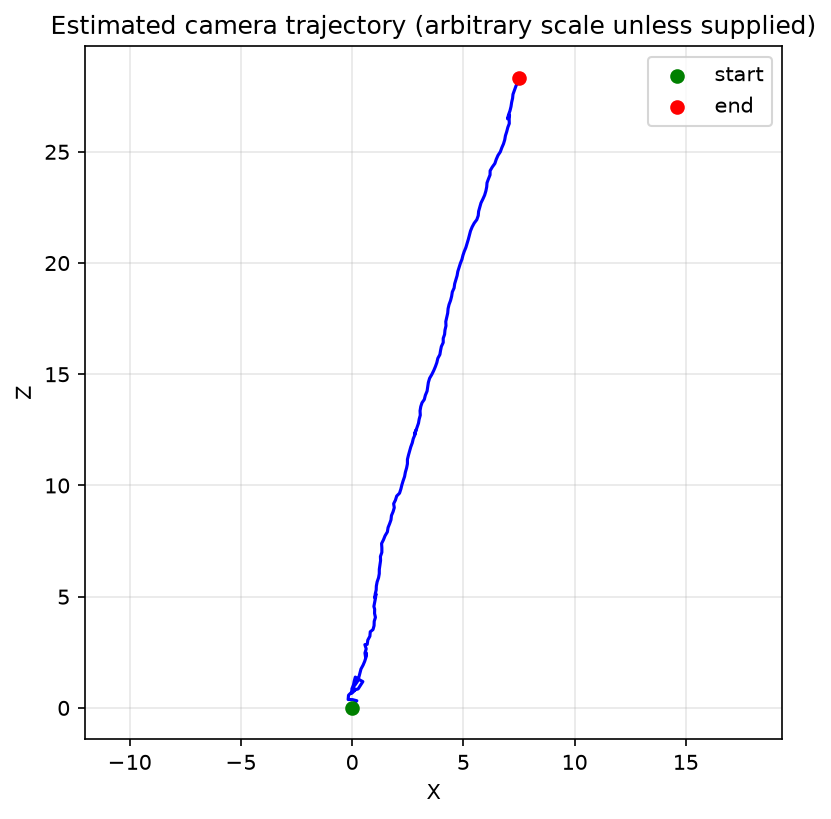
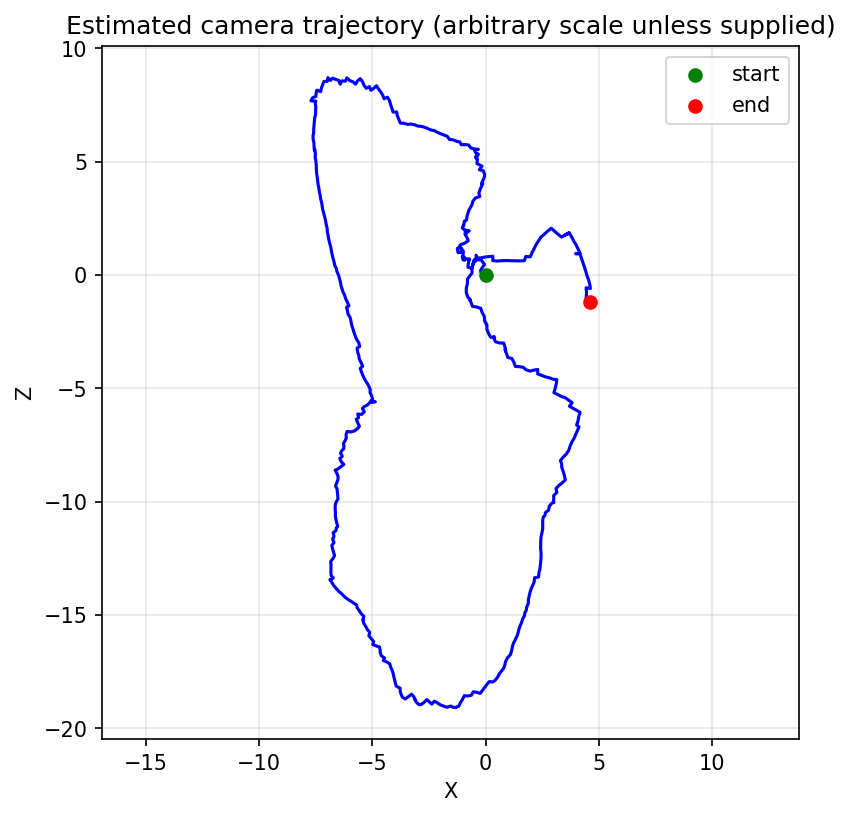
Loop fix

diff --git a/orb-slam/monocular_vo_xFeat.py b/orb-slam/monocular_vo_xFeat.py
@@ -283,12 +283,13 @@ class MonocularVO:
         bank = torch.stack([kf.global_descriptor for kf in eligible])   # (M, k*d), already L2-normed
         scores = bank @ current.global_descriptor                       # (M,) cosine sim in one matmul
         scores_np = scores.cpu()
-
+        
         keep = scores_np >= similarity_thresh
         idxs = keep.nonzero(as_tuple=True)[0]
         if len(idxs) == 0:
+            
             return []
-
+        print("What")
         ranked = sorted(((scores_np[i].item(), eligible[i]) for i in idxs), key=lambda x: x[0], reverse=True)
         return ranked[:n_candidates]
 
@@ -589,7 +590,7 @@ class MonocularVO:
             if translation > 0.6 or rotation > 15:
                 print("Keyframe created: ", self.next_keyframe_id, " translation: ", translation, " rotation: ", int(rotation))
                 self._create_keyframe(frame_count, kp_full, feats_full)
-                candidates = self._process_keyframes(3,0.95)
+                candidates = self._process_keyframes(50,0.1)
                 if candidates:
                     result = self._process_candidates(candidates)
                     if result:
